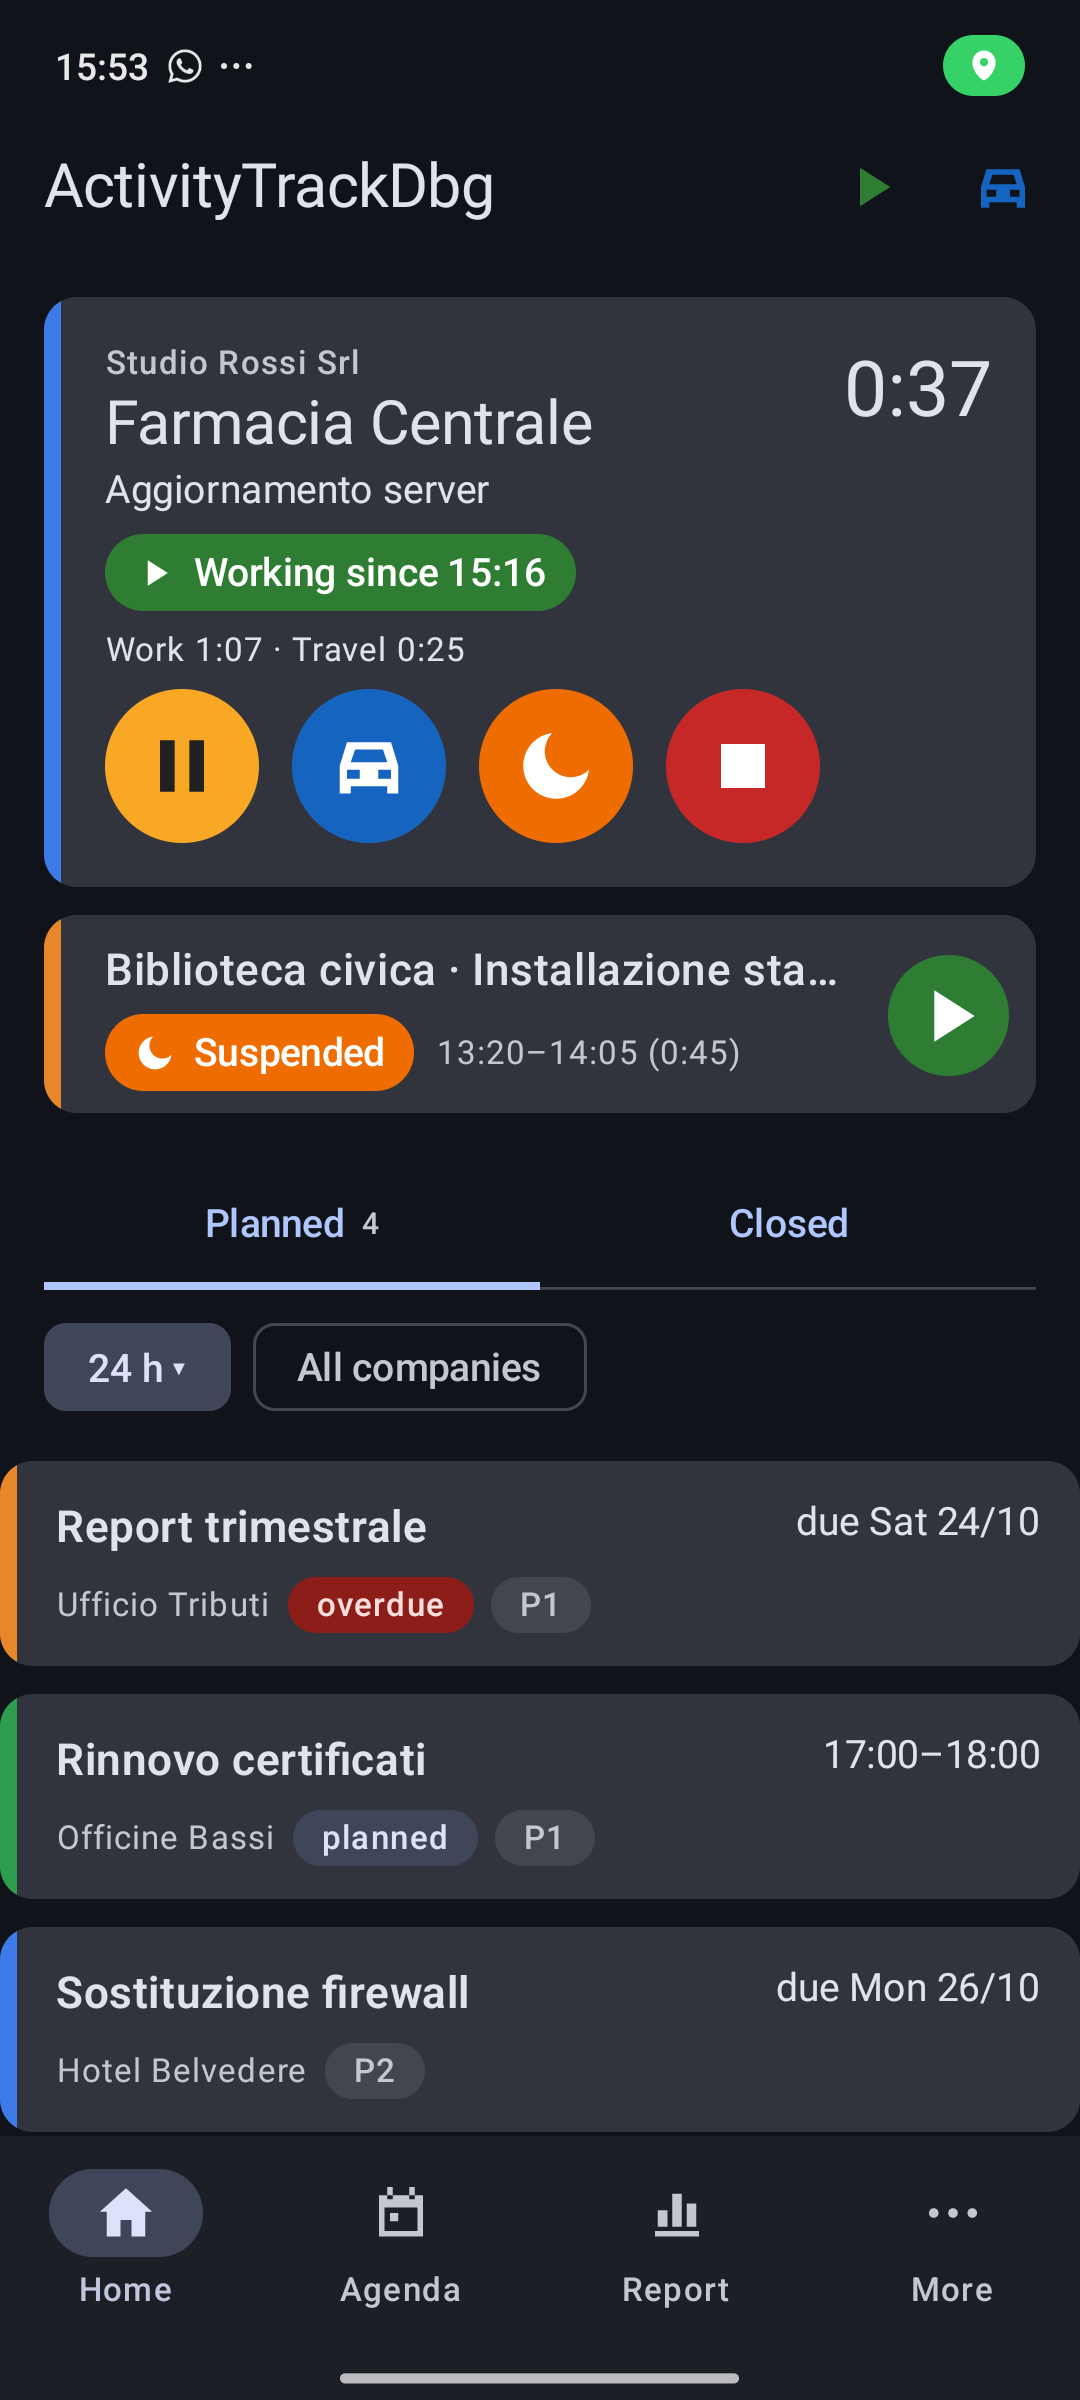
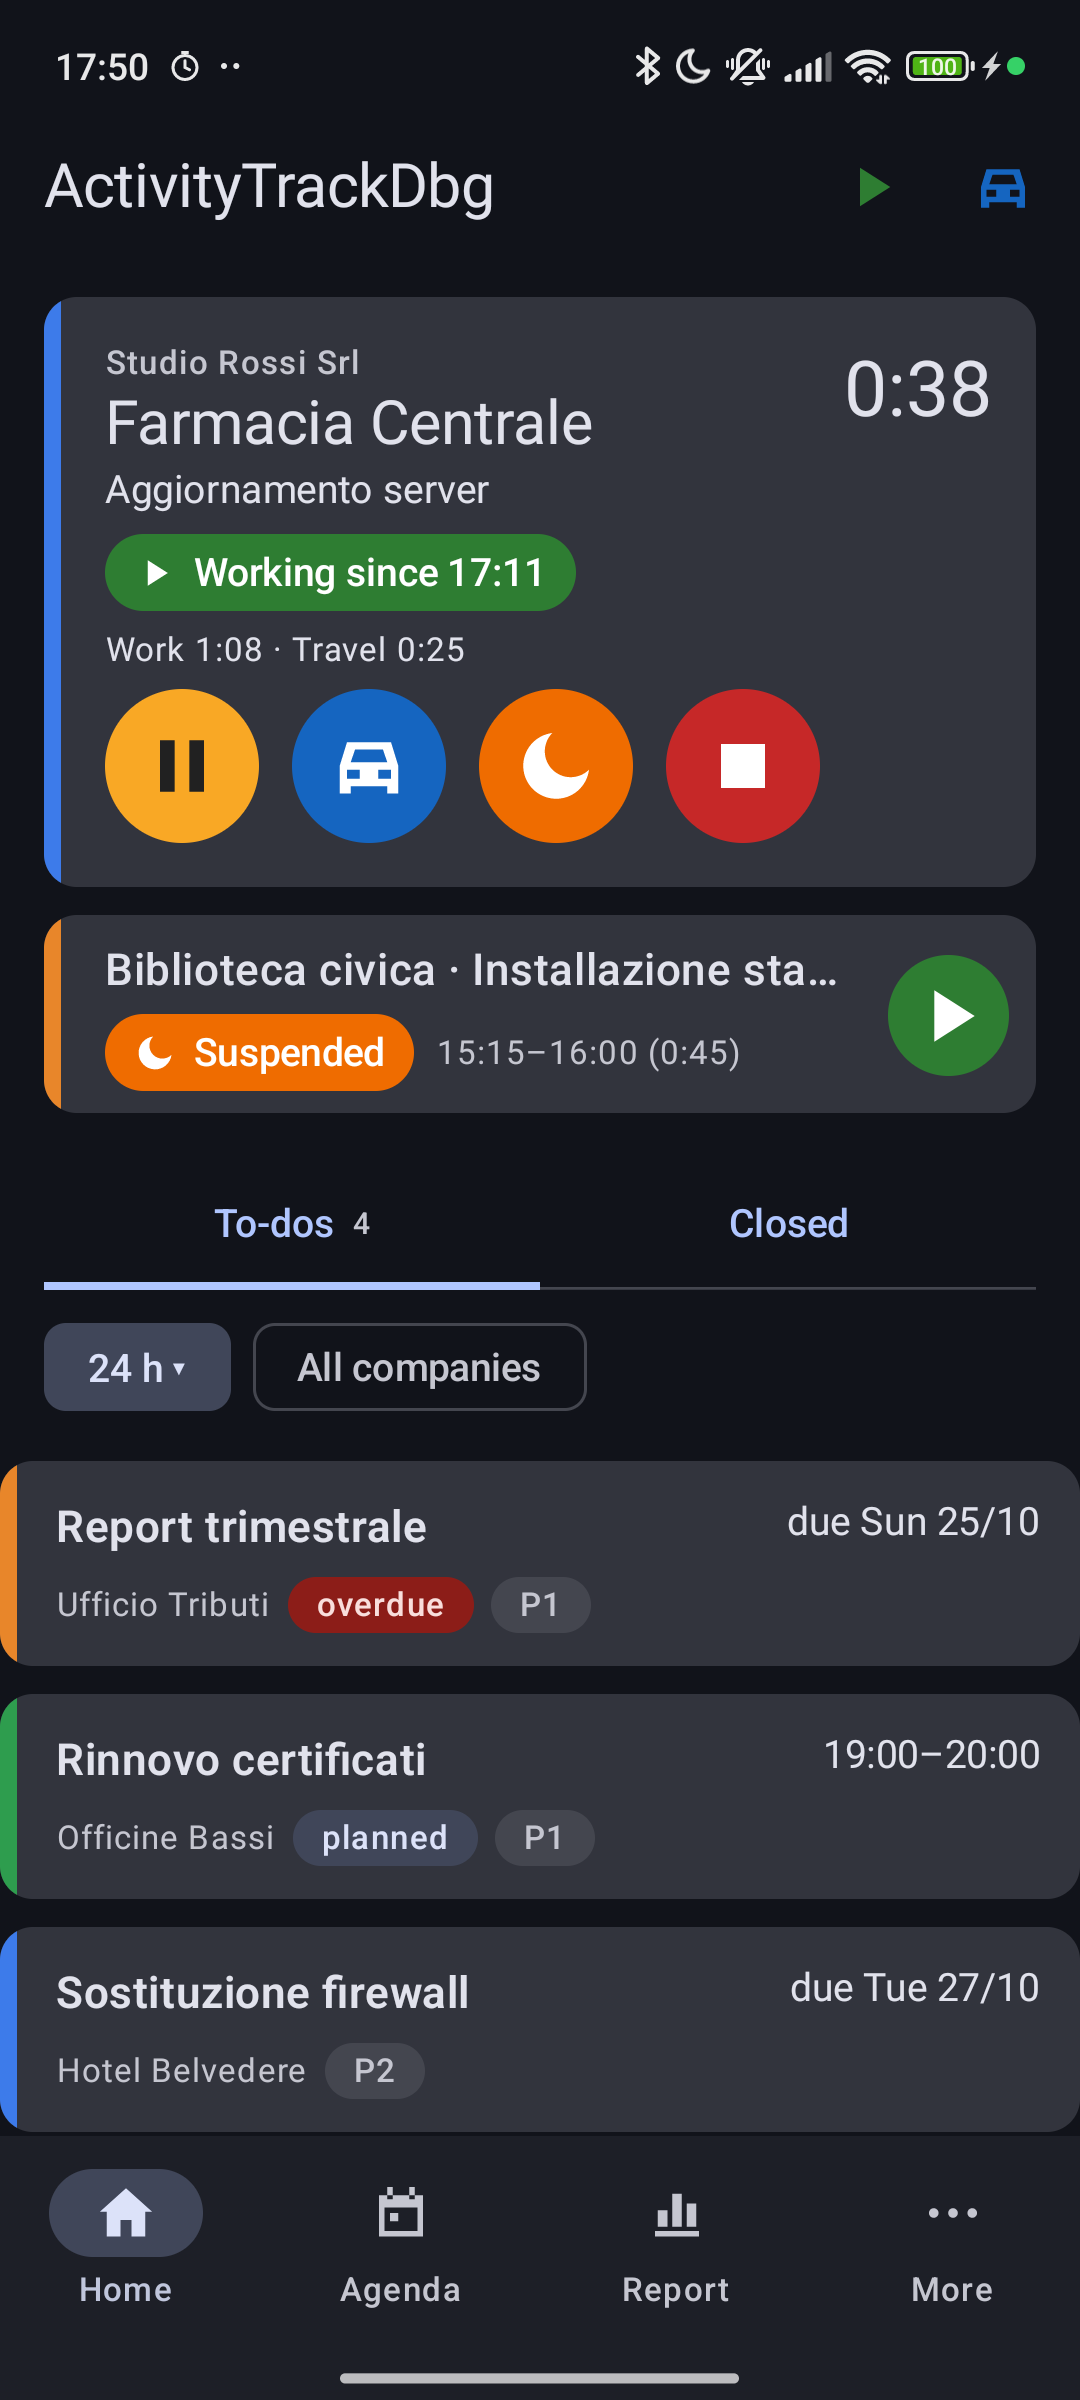
Widgets read flows; device-tested 0.7.6, screenshots retaken
Device test of 0.7.6 on the debug phone:
- both 4×2 widgets loaded their data before provideContent; an update
  reaching a Glance session still open recomposes without calling
  provideGlance again, so a to-do marked done stayed on the widget and
  the running time could freeze. They now collect flows of the database
  (and minute ticks) inside the composition.
- the to-dos widget missed the space between a time and the title.
- screenshots.py taps the "Da fare" tab before the Home shot (the Home
  remembers its tab) and finds the launcher page with the widgets.
Manual: 0.7.6 marked as tested; screenshots retaken (it, en).

diff --git a/app/src/main/kotlin/it/infraconsulting/activitytrack/quick/TodoWidget.kt b/app/src/main/kotlin/it/infraconsulting/activitytrack/quick/TodoWidget.kt
@@ -52,7 +52,15 @@ import java.time.LocalDate
 import java.time.ZoneId
 import java.time.format.DateTimeFormatter
 import java.util.Locale
+import androidx.compose.runtime.collectAsState
+import androidx.compose.runtime.getValue
+import it.infraconsulting.activitytrack.data.db.ClientEntity
+import it.infraconsulting.activitytrack.data.db.TimeEntryEntity
+import kotlinx.coroutines.flow.Flow
+import kotlinx.coroutines.flow.combine
+import kotlinx.coroutines.flow.distinctUntilChanged
 import kotlinx.coroutines.flow.first
+import kotlinx.coroutines.flow.map
 
 /*
  * 4×2 widget with the planned to-dos (issue #62): the next ones (window a
@@ -91,21 +99,31 @@ private fun todoTime(t: TodoEntity, zone: ZoneId): String {
 		(t.dueTimeMin?.let { "%02d:%02d".format(it / 60, it % 60) } ?: "")
 }
 
-private suspend fun loadTodoState(context: Context): List<TodoRowState> {
+/*
+ * The rows, from the database flows (and the minute ticks for the window
+ * and the overdue colour): read inside the composition, since an update
+ * reaching a Glance session still open does not call provideGlance again
+ * (device test 2026-10-26: a to-do marked done stayed on the widget).
+ */
+private fun todoStates(context: Context): Flow<List<TodoRowState>> {
 	val c = (context.applicationContext as ActivityTrackApp).container
+	return combine(
+		c.todos.open, c.entries.openEntries, c.masterData.clients,
+		c.settings.settings.map { it.widgetTodoWindowHours }.distinctUntilChanged(), minuteTicks(),
+	) { open, entries, clients, window, now -> todoRows(open, entries, clients.associateBy { it.id }, window, Instant.ofEpochMilli(now)) }
+}
+
+private fun todoRows(open: List<TodoEntity>, entries: List<TimeEntryEntity>, clients: Map<Long, ClientEntity>, window: Int, now: Instant): List<TodoRowState> {
 	val zone = ZoneId.systemDefault()
-	val settings = c.settings.current()
-	val open = c.todos.open.first()
-	val clients = c.masterData.clients.first().associateBy { it.id }
-	val running = c.entries.openEntries.first()
+	val running = entries
 		.filter { it.status == EntryStatus.ACTIVE && it.todoId != null }
 		.associate { it.todoId!! to it.id }
 	/* the same split as the Home Pianificate tab: overdue first, by moment */
-	return plannedSplit(open, null, settings.widgetTodoWindowHours, Instant.now(), zone).dated
+	return plannedSplit(open, null, window, now, zone).dated
 		.take(MAX_ROWS)
 		.map { t ->
 			TodoRowState(
-				t, todoTime(t, zone), t.clientId?.let { clients[it]?.name }, overdue(t),
+				t, todoTime(t, zone), t.clientId?.let { clients[it]?.name }, overdue(t, now),
 				running[t.id], t.clientId != null,
 			)
 		}
@@ -142,8 +160,12 @@ class TodoWidget : GlanceAppWidget() {
 	override suspend fun provideGlance(context: Context, id: GlanceId) {
 		if (!widgetsAllowed(context))
 			return provideContent { GlanceTheme { DisabledWidget(context) } }
-		val rows = loadTodoState(context)
-		provideContent { GlanceTheme { TodoContent(context, rows) } }
+		val states = todoStates(context)
+		val first = states.first()
+		provideContent {
+			val rows by states.collectAsState(first)
+			GlanceTheme { TodoContent(context, rows) }
+		}
 	}
 
 	@Composable
@@ -178,7 +200,7 @@ class TodoWidget : GlanceAppWidget() {
 										color = if (r.late) ColorProvider(RED) else dim, fontSize = 11.sp,
 									),
 								)
-								if (r.late) Spacer(GlanceModifier.width(4.dp))
+								if (r.time.isNotBlank()) Spacer(GlanceModifier.width(4.dp))
 								Text(
 									r.todo.title, maxLines = 1,
 									style = TextStyle(color = text, fontWeight = FontWeight.Medium, fontSize = 13.sp),

diff --git a/app/src/main/kotlin/it/infraconsulting/activitytrack/quick/EntryWidget.kt b/app/src/main/kotlin/it/infraconsulting/activitytrack/quick/EntryWidget.kt
@@ -44,6 +44,14 @@ import it.infraconsulting.activitytrack.domain.model.EntryStatus
 import it.infraconsulting.activitytrack.domain.model.SegmentKind
 import it.infraconsulting.activitytrack.ui.Screen
 import it.infraconsulting.activitytrack.ui.common.commandStyle
+import androidx.compose.runtime.collectAsState
+import androidx.compose.runtime.getValue
+import it.infraconsulting.activitytrack.data.db.ClientEntity
+import it.infraconsulting.activitytrack.data.db.CompanyEntity
+import it.infraconsulting.activitytrack.data.db.SegmentEntity
+import it.infraconsulting.activitytrack.data.db.TimeEntryEntity
+import kotlinx.coroutines.flow.Flow
+import kotlinx.coroutines.flow.combine
 import kotlinx.coroutines.flow.first
 
 /*
@@ -71,15 +79,31 @@ private data class EntryWidgetState(
 	val travelMs: Long,
 )
 
-private suspend fun loadEntryState(context: Context): EntryWidgetState {
+/*
+ * The state shown, from the database flows and the minute ticks: read
+ * inside the composition (issue #62 device test, 2026-10-26) — an update
+ * that reaches a Glance session still open recomposes without calling
+ * provideGlance again, so data loaded before provideContent stayed stale.
+ */
+private fun entryStates(context: Context): Flow<EntryWidgetState> {
 	val c = (context.applicationContext as ActivityTrackApp).container
-	val clients = c.masterData.clients.first().associateBy { it.id }
-	val companies = c.masterData.companies.first().associateBy { it.id }
+	return combine(c.entries.openEntries, c.entries.openEntrySegments, c.masterData.clients, c.masterData.companies, minuteTicks()) { entries, segs, clients, companies, now ->
+		entryState(context, entries, segs, clients.associateBy { it.id }, companies.associateBy { it.id }, now)
+	}
+}
+
+private fun entryState(
+	context: Context,
+	openEntries: List<TimeEntryEntity>,
+	allSegs: List<SegmentEntity>,
+	clients: Map<Long, ClientEntity>,
+	companies: Map<Long, CompanyEntity>,
+	now: Long,
+): EntryWidgetState {
 	/* the entry the Home would show in its big card: the most recent open one */
-	val e = c.entries.openEntries.first().firstOrNull()
+	val e = openEntries.firstOrNull()
 		?: return EntryWidgetState(null, null, context.getString(R.string.home_none), null, EntryStatus.CLOSED, null, null, null, 0, 0)
-	val segs = c.entries.segments(e.id).first()
-	val now = System.currentTimeMillis()
+	val segs = allSegs.filter { it.entryId == e.id }.sortedBy { it.startUtcMs }
 	val open = segs.lastOrNull { it.endUtcMs == null }
 	val since = when (e.status) {
 		EntryStatus.ACTIVE -> open?.startUtcMs
@@ -134,8 +158,12 @@ class EntryWidget : GlanceAppWidget() {
 	override suspend fun provideGlance(context: Context, id: GlanceId) {
 		if (!widgetsAllowed(context))
 			return provideContent { GlanceTheme { DisabledWidget(context) } }
-		val s = loadEntryState(context)
-		provideContent { GlanceTheme { EntryContent(context, s) } }
+		val states = entryStates(context)
+		val first = states.first()
+		provideContent {
+			val s by states.collectAsState(first)
+			GlanceTheme { EntryContent(context, s) }
+		}
 	}
 
 	@Composable

diff --git a/app/src/main/kotlin/it/infraconsulting/activitytrack/quick/WidgetTicker.kt b/app/src/main/kotlin/it/infraconsulting/activitytrack/quick/WidgetTicker.kt
@@ -8,6 +8,9 @@ import android.content.Context
 import android.content.Intent
 import kotlinx.coroutines.CoroutineScope
 import kotlinx.coroutines.Dispatchers
+import kotlinx.coroutines.delay
+import kotlinx.coroutines.flow.Flow
+import kotlinx.coroutines.flow.flow
 import kotlinx.coroutines.launch
 
 /*
@@ -33,6 +36,19 @@ object WidgetTicker {
 			return
 		}
 		am.setAndAllowWhileIdle(AlarmManager.RTC, System.currentTimeMillis() / 60_000 * 60_000 + 60_000, pi)
+	}
+}
+
+/*
+ * The current time, at once and then at every whole minute: the widgets
+ * read their data from flows inside the Glance composition, and a session
+ * left open would otherwise keep the elapsed time of its first frame.
+ */
+internal fun minuteTicks(): Flow<Long> = flow {
+	while (true) {
+		val now = System.currentTimeMillis()
+		emit(now)
+		delay(60_000 - now % 60_000)
 	}
 }
 

diff --git a/scripts/screenshots.py b/scripts/screenshots.py
@@ -28,10 +28,10 @@ DBS = ["activitytrack.db", "activitytrack.db-wal", "activitytrack.db-shm"]
 LABELS = {
 	"it": dict(new="Nuova attività", end="^Fine$", agenda="Agenda", day="Giorno", report="Report", more="Altro",
 		todos="Da fare", md="Anagrafiche", clients="Clienti", manual="Manuale", settings="Impostazioni", running="Farmacia Centrale",
-		contacts="Contatti", calls="Chiamate", planned="Pianificate", closed="Chiuse"),
+		contacts="Contatti", calls="Chiamate", planned="Da fare", closed="Chiuse"),
 	"en": dict(new="New activity", end="^End$", agenda="Agenda", day="Day", report="Report", more="More",
 		todos="To-dos", md="Master data", clients="Clients", manual="Manual", settings="Settings", running="Farmacia Centrale",
-		contacts="Contacts", calls="Calls", planned="Planned", closed="Closed"),
+		contacts="Contacts", calls="Calls", planned="To-dos", closed="Closed"),
 }
 
 
@@ -139,6 +139,8 @@ def capture(lang):
 	t = LABELS[lang]
 	sh("cmd", "locale", "set-app-locales", PKG, "--locales", {"it": "it-IT", "en": "en-US"}[lang])
 	restart()
+	# the Home remembers its last tab (issue #59): the picture shows "Da fare"
+	tap(f"^{t['planned']}$", wait=2)
 	shot(lang, "home")
 	# the bottom tabs of the Home (issue #59): the Chiuse tab, then back
 	tap(f"^{t['closed']}$", wait=2.5)
@@ -191,8 +193,17 @@ def capture(lang):
 	# so they show the sample data in the current language
 	sh("input", "keyevent", "3")
 	time.sleep(2)
-	sh("input", "swipe", "900", "1000", "200", "1000", "300")
-	time.sleep(3)
+	# the launcher page holding them: the widget label ("... 4×2") tells, else
+	# try the pages on either side (they moved to the left one, 2026-10-26)
+	for swipe in ([], ["150", "1000", "900", "1000"], ["900", "1000", "150", "1000"], ["900", "1000", "150", "1000"]):
+		if swipe:
+			sh("input", "swipe", *swipe, "300")
+			time.sleep(2)
+		if any("4×2" in (n.get("text") or n.get("content-desc") or "") for n, b in nodes()):
+			break
+	else:
+		raise SystemExit("4×2 widgets not found on the launcher")
+	time.sleep(2)
 	shot(lang, "widgets")
 
 

diff --git a/docs/manual/it/manual.md b/docs/manual/it/manual.md
@@ -3,7 +3,7 @@ e l'app. La *Guida rapida* riassume in poche pagine l'uso quotidiano; questo
 manuale descrive tutto: la **Parte I** l'uso, la **Parte II** il riferimento
 (impostazioni, entità, stati, flussi).
 
-**Novità della 0.7.6**
+**Novità della 0.7.6** (provata sul telefono di debug)
 - Un solo nome per le voci da fare: la scheda della Home e il widget si
   chiamano **Da fare**.
 - Impostazioni: un pallino nel titolo segnala le modifiche non salvate e
@@ -13,8 +13,8 @@ manuale descrive tutto: la **Parte I** l'uso, la **Parte II** il riferimento
 - **Stop rapido** nella domanda di Stop (§5); **suggerimenti sui gesti** al
   primo uso (§3, "Gesti").
 - Il widget "Da fare", avviando una voce, sospende le attività in corso.
-- Correzioni: il widget "Da fare" si aggiorna quando cambiano le voci (una
-  voce fatta non vi resta più); di notte, prima delle 06:00, "Chiuse ·
+- Correzioni: i widget si aggiornano subito (una voce fatta non resta nel
+  widget "Da fare", il tempo dell'attività in corso avanza); di notte, prima delle 06:00, "Chiuse ·
   Oggi" mostra la giornata iniziata ieri alle 06:00, come i report.
 
 **Novità della 0.7.2** (provata sul telefono di debug)

diff --git a/docs/manual/en/manual.md b/docs/manual/en/manual.md
@@ -3,7 +3,7 @@ manual and the app. The *Quick start* sums up daily use in a few pages; this
 manual covers everything: **Part I** how to use the app, **Part II** the
 reference (settings, entities, states, flows).
 
-**New in 0.7.6**
+**New in 0.7.6** (tested on the debug phone)
 - One name for the to-dos: the Home tab and the widget are called
   **To-dos**.
 - Settings: a dot in the title flags unsaved changes and leaving asks first
@@ -13,8 +13,8 @@ reference (settings, entities, states, flows).
 - **Quick stop** in the Stop question (§5); **gesture tips** at first use
   (§3, "Gestures").
 - The to-dos widget suspends the running activities when it starts one.
-- Fixes: the to-dos widget follows the to-dos (a done one no longer stays
-  on it); at night, before 06:00, "Closed · Today" shows the working day
+- Fixes: the widgets update at once (a done to-do no longer stays on the
+  to-dos widget, the running activity's time moves on); at night, before 06:00, "Closed · Today" shows the working day
   begun yesterday at 06:00, as the reports do.
 
 **New in 0.7.2** (tested on the debug phone)
